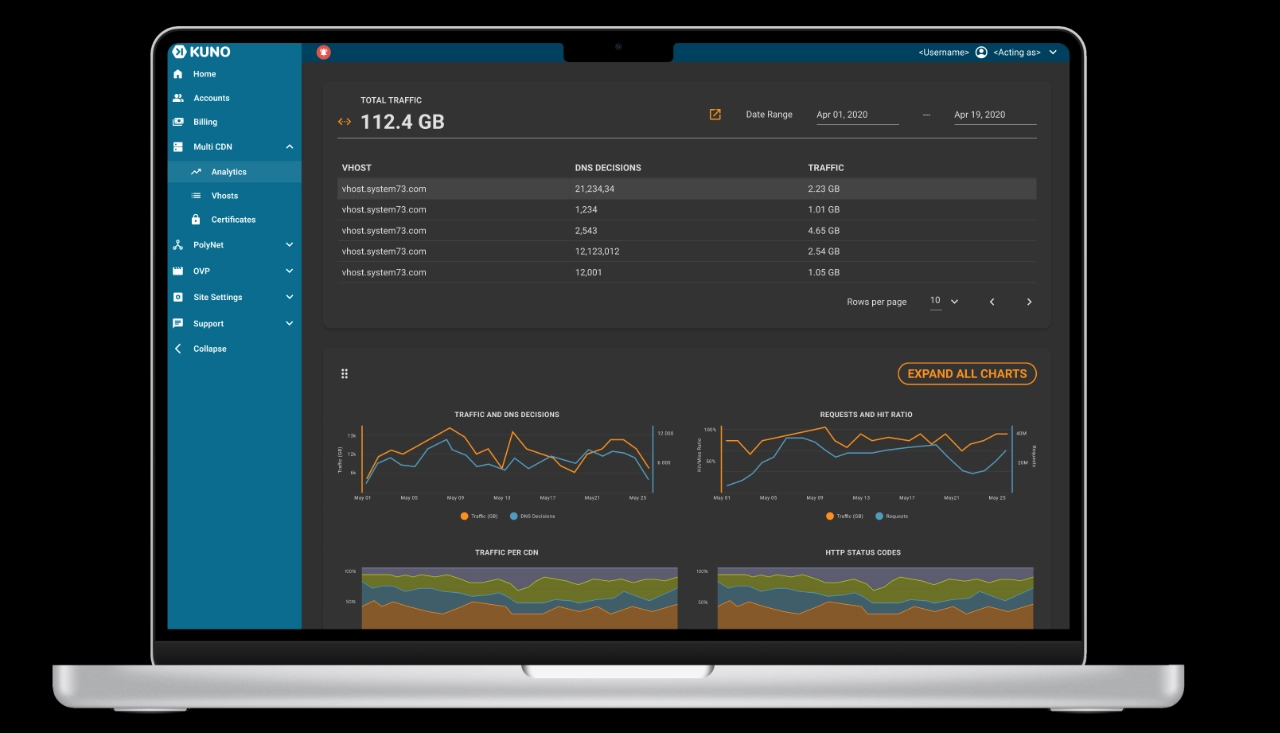
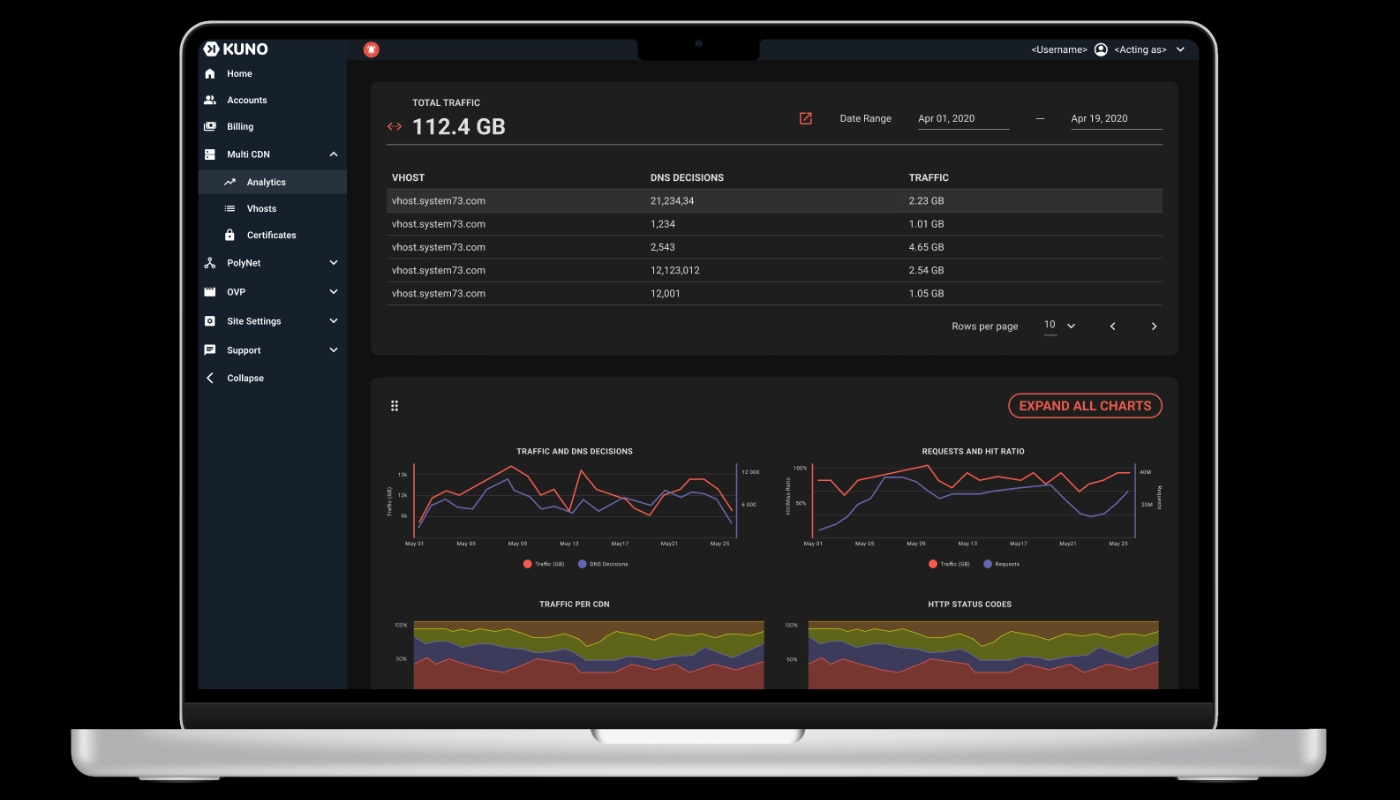
updating KUNO post and some images

Changed region(s): [[0.0312, 0.0, 0.9688, 0.9905], [0.7188, 0.6603, 0.75, 0.6903]]

diff --git a/docs/stylesheets/extra.css b/docs/stylesheets/extra.css
@@ -117,9 +117,9 @@
   --md-default-fg-color--lighter:      var(--grayscale-gray-450);
   --md-default-fg-color--lightest:     var(--grayscale-gray-500); 
   --md-default-bg-color:               var(--grayscale-gray-920);
-  --md-default-bg-color--light:        rgba(0, 0, 0, 0.54);
-  --md-default-bg-color--lighter:      rgba(0, 0, 0, 0.32);
-  --md-default-bg-color--lightest:     rgba(0, 0, 0, 0.07);
+  --md-default-bg-color--light:        var(--grayscale-gray-900);
+  --md-default-bg-color--lighter:      var(--grayscale-gray-800);
+  --md-default-bg-color--lightest:     var(--grayscale-gray-700);
 
   --md-typeset-color:                  var(--md-default-fg-color);
   --md-typeset-color-inverted:         var(--grayscale-gray-920);
@@ -173,14 +173,14 @@
 
   --md-accent-fg-color:                var(--tertiary);
   
-  --md-default-fg-color:               var(--grayscale-gray-900);
-  --md-default-fg-color--light:       rgba(0, 0, 0, 0.54);
-  --md-default-fg-color--lighter:     rgba(0, 0, 0, 0.32);
-  --md-default-fg-color--lightest:    rgba(0, 0, 0, 0.07);
+  --md-default-fg-color:               var(--grayscale-gray-920);
+  --md-default-fg-color--light:       var(--grayscale-gray-900);
+  --md-default-fg-color--lighter:     var(--grayscale-gray-800);
+  --md-default-fg-color--lightest:    var(--grayscale-gray-700);
   --md-default-bg-color:               var(--grayscale-gray-100);
-  --md-default-bg-color--light:       rgba(255, 255, 255, 0.7);
-  --md-default-bg-color--lighter:     rgba(255, 255, 255, 0.3);
-  --md-default-bg-color--lightest:    rgba(39, 27, 27, 0.12);
+  --md-default-bg-color--light:        var(--grayscale-gray-200);
+  --md-default-bg-color--lighter:      var(--grayscale-gray-300);
+  --md-default-bg-color--lightest:     var(--grayscale-gray-400);
 
   --md-typeset-color:                 var(--md-default-fg-color);
   --md-typeset-color-inverted:        var(--grayscale-gray-200);
@@ -442,9 +442,7 @@ input {
 }
 
 
-.iconSummary {
-  color: var(--md-secondary);
-}
+
 
 /* gallery */
 .galleryFlex {
@@ -658,12 +656,28 @@ input {
 }
 
 .handnotes {
-  background-color: var(--primary-light-020);
-  font-family: monospace;
-  margin-left: var(--spacing-2);
-  padding-inline: var(--spacing-2);
+  text-decoration-thickness: 16px;
+  text-underline-offset: -.5em;
+  text-decoration-color: var(--secondary-050);
+  text-decoration-style: solid;
+  text-decoration-line: underline;
+  text-decoration-skip-ink: none;
 }
 
 .md-sidebar__scrollwrap {
   overflow-y: visible;
+}
+
+.iconSummary {
+  color: var(--md-secondary);
+  margin-right: var(--spacing-2);
+}
+
+.md-typeset .grid.cards>ul>li {
+  border-radius: var(--spacing-3);
+}
+
+.grid.cards>ul>li>p:first-child {
+  display: flex;
+  align-items: center;
 }

diff --git a/docs/work/digital/kuno.md b/docs/work/digital/kuno.md
@@ -61,6 +61,12 @@ Additionally, we seek to establish a well-defined workflow for the various stage
 5. Establish a User's Help Center.
 6. Assist with internal documentation.
 
+## Design System
+
+### Colors
+
+![KunoDesign System Colors](../../img/kuno/kuno-design-system-colors-light-dark.webp)
+
 ## Feature Definition Flow
 
 In a single designer team, surrounded by developers, the role of design often lacks clarity. The individual tasked with this responsibility may encounter challenges in dealing with team members who may not fully comprehend the purpose of design.
@@ -107,9 +113,7 @@ Prototypes are essential for problem-solving, showcasing new features, and commu
 
 Here, you can see a single-screen prototype in Figma. :material-arrow-down:
 
-[:material-open-in-new:{.middle}View Figma Reduced Prototype](https://www.figma.com/file/alDXlktB2GDEDV66ajWORQ/System73?type=design&node-id=50%3A10206&mode=design&t=t5F1wc1RMnn5v2kh-1){ target="_blank" .content-link}
-
-![Kuno Prototype Image](../../img/kuno/kuno-prototype.webp)
+[![Kuno Prototype Image](../../img/kuno/kuno-prototype.webp)](https://www.figma.com/file/alDXlktB2GDEDV66ajWORQ/System73?type=design&node-id=50%3A10206&mode=design&t=t5F1wc1RMnn5v2kh-1){ target="_blank"}
 
 ### Test
 
